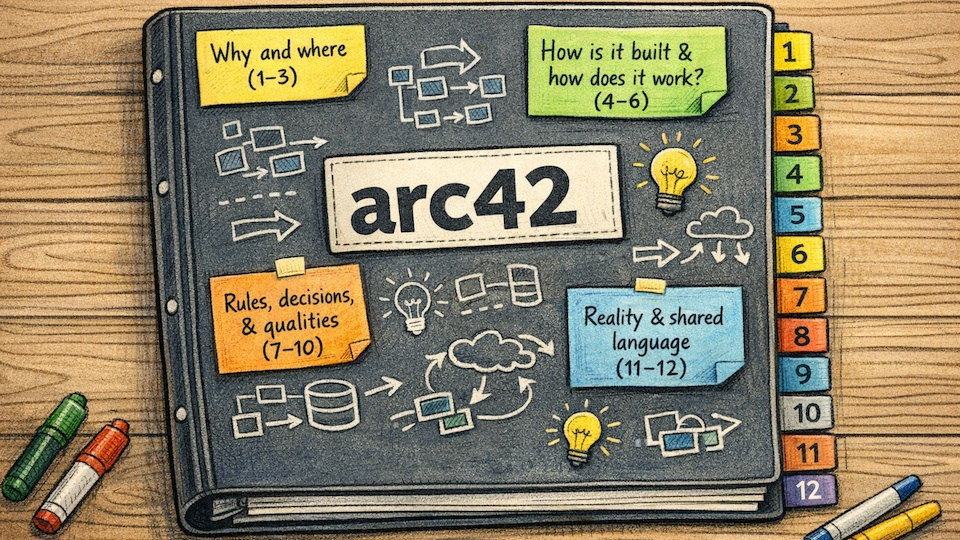
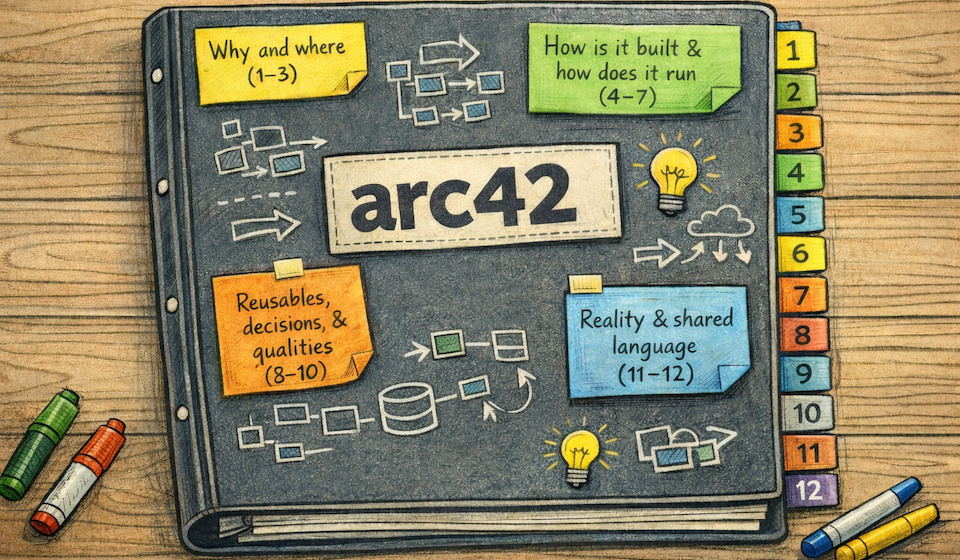
feat: add arc42 chapter 10 on quality requirements

diff --git a/src/styles/global.css b/src/styles/global.css
@@ -1071,7 +1071,6 @@ iframe,
 figure.wp-shadow iframe,
 figure.wp-shadow img,
 img.wp-shadow {
-  border: solid 1px #eee;
   box-shadow: 3px 3px 3px var(--color-border);
   box-sizing: content-box;
 }

diff --git a/posts/2026/2026-02-19-arc42-chapter-10-quality-requirements.md b/posts/2026/2026-02-19-arc42-chapter-10-quality-requirements.md
@@ -1,0 +1,315 @@
+---
+id: 2135
+title: "arc42 chapter 10: Quality requirements"
+date: 2026-02-19T20:00:00+01:00
+author: Michaël Hompus
+excerpt: >
+  Chapter 10 turns quality goals into testable quality scenarios.
+  It helps you move beyond vague words like "fast" or "secure" by describing concrete situations,
+  expected responses, and measurable targets.
+  ISO/IEC 25010 and Q42 can help as a structure and inspiration, but the real value is iteration:
+  refine goals, learn from reality, and tighten scenarios over time.
+
+  In this article I explain what belongs in chapter 10, what to keep out,
+  a minimal structure you can copy, plus a small example from Pitstop.
+permalink: /2026/02/19/arc42-chapter-10-quality-requirements/
+image: /wp-content/uploads/2026/02/post-2026-02-19-thumbnail.jpg
+categories:
+  - Architecture
+tags:
+  - arc42
+  - Documentation
+  - Quality
+  - ISO25010:2023
+  - Q42
+  - Scenarios
+series: Arc42 Practical Series
+---
+
+This post is about **chapter 10: Quality requirements**,
+the third chapter in the "Reusables, decisions, and qualities" group.
+
+Chapter [1][CH1] introduced quality goals at a high level.
+Chapters [8][CH8] and [9][CH9] captured patterns and decisions that often exist _because_ of those goals.
+Chapter 10 is where I make qualities concrete: not as slogans, but as scenarios you can test, monitor, and verify.
+
+One recurring problem: stakeholders and teams find it hard to write SMART quality requirements.
+They will say <q>fast</q>, <q>robust</q>, <q>secure</q>, and everyone nods.
+Then production teaches you that nodding is not a measurement.
+
+<!--more-->
+
+## What belongs in chapter 10 (and what does not)
+
+Chapter 10 of an [arc42][ARC42] document answers:
+
+> Which quality requirements matter, and how do we know we meet them?
+
+What belongs here:
+
+- A **quality requirements overview**:  
+  the relevant quality characteristics for your system, grouped in a structure that is easy to scan.
+  ISO/IEC 25010 is a common choice for this grouping, and [Q42][Q42] is a useful catalogue for examples.
+- A set of **quality scenarios**:  
+  situation-based, testable requirements with a stimulus, an expected response, and a metric or target.
+  "Testable" means different things per type: validate a latency scenario with a load test or SLO alert;
+  an auditability scenario with a timed export; a modifiability scenario by verifying the adapter boundary in a code review.
+- A clear link back to **quality goals** from chapter [1][CH1].  
+  If chapter 1 says "auditability" is a top goal, chapter 10 should make that measurable.
+- Cross-links to where quality is implemented:  
+  concepts (chapter [8][CH8]), decisions (chapter [9][CH9]), and sometimes deployment constraints (chapter [7][CH7]).
+
+What does not belong here:
+
+- A technology shopping list.  
+  "Kafka" is not a quality requirement, it is a potential solution.
+- Purely functional requirements and business workflows.  
+  Those belong in use cases, building blocks (chapter [5][CH5]), and runtime scenarios (chapter [6][CH6]).
+- Only vague adjectives.  
+  "fast" and "secure" are direction, not requirements.
+  Chapter 10 is where you turn them into something you can validate.
+
+> [!TIP]
+> If you cannot imagine a test, a metric, or an operational check for a statement,
+> it probably belongs in chapter 1 as a goal, not in chapter 10 as a requirement.
+
+### Why is quality so late in arc42?
+
+It can feel strange that quality scenarios show up this far back in the arc42 structure.
+It can look like quality is an afterthought. It is not.
+
+This is how I explain it:
+
+- Quality goals are up front because they drive direction.
+- Quality scenarios are later because they need context to be meaningful.
+- The document is iterative: you refine goals, you make choices, you learn, you tighten scenarios.
+
+In other words, chapter 10 benefits from having chapters [5][CH5]–[7][CH7] in place.
+A scenario like "p95 status update latency is ≤ 2s" only makes sense when you know what "status update" is,
+which building blocks collaborate, and where the system actually runs.
+
+> [!NOTE]
+> Verification often happens late because reality arrives late.
+> The trick is to still let quality drive your work early, then use chapter 10 to sharpen the targets as you learn.
+
+### A structure that helps when people struggle with SMART qualities
+
+If your stakeholders struggle with SMART wording, do not fight them with a blank page.
+Give them a ladder:
+
+- Start with a quality tree to agree on vocabulary.
+- Add a short overview per quality area: what matters and what does not.
+- Convert the important items into scenarios with measurable targets.
+
+Two helpful sources for vocabulary and inspiration:
+
+- **ISO/IEC 25010:2023** gives you a familiar top-level structure.
+- **Q42** is a companion project by the arc42 team.
+  It gives you a large catalogue of quality characteristics with descriptions and example requirements you can adapt.
+
+Use them as scaffolding, not as a checklist.
+
+### Quality tree diagram
+
+A quality tree is a visual overview of which quality characteristics apply to your system.
+It works like a map: it shows the landscape at a glance, so you can decide where to focus.
+
+It is useful because it makes trade-offs visible.
+When you can see all quality areas together, it becomes easier to say "this matters more than that",
+and to explain that choice to others.
+It also prevents the "everything is important" trap:
+when everything is marked as a top priority, that is the same as having no priorities at all.
+
+![Quality tree diagram](/wp-content/uploads/2026/02/quality-tree.png)
+
+> [!NOTE]  
+> Most systems use a subset of the tree, **not all branches**. The goal is clarity, not purity.  
+> It is fine to add system-specific categories such as auditability or data minimization.
+
+## The minimum viable version
+
+If you are short on time, aim for this:
+
+1. A small quality overview, grouped by ISO/IEC 25010:2023 headings.  
+  <small>(or your own headings if that reads better).</small>
+2. Pick 3–6 top items and write quality scenarios for them.
+3. For each scenario, add a metric target you can validate later.
+
+That is enough to stop quality from being a vibe.
+
+## Copy/paste structure (Markdown skeleton)
+
+Use this as a starting point.
+
+```md title="10-quality-requirements.md"
+## 10. Quality requirements
+
+<Short intro: why quality matters for this system and how we verify it.>
+
+### 10.1 Quality requirements overview
+
+<Group requirements using ISO/IEC 25010:2023 headings or another clear structure.>
+<Mark "nice-to-have" items explicitly.>
+
+### 10.2 Quality scenarios
+
+<Scenario-based, testable requirements. Keep them short and measurable.>
+
+| Scenario | Stimulus | Response | Metric/Target |
+| :------- | :------- | :------- | :------------ |
+| ...      | ...      | ...      | ...           |
+
+<Add more tables per quality theme if that improves readability.>
+```
+
+> [!NOTE]
+> If you already use BDD or [Gherkin][GHERKIN_REFERENCE], the mapping is straightforward:  
+> **Given** (context and preconditions),  
+> **When** (stimulus),  
+> **Then** (expected response and metric/target).  
+> You can write scenarios in Gherkin and reference them here, or keep them in the table format above.
+> Either way, the key property is the same: concrete, testable, and measurable.
+
+## Example (Pitstop)
+
+Pitstop is my small demo system for this series.
+It is intentionally simple, so the documentation stays shareable.
+
+Below is a shortened version of the Pitstop chapter 10.
+It shows the structure without drowning you in every possible scenario.
+Notice how overview headings and scenario groups mark which chapter [1][CH1] top goals they address.
+Consistency is a Pitstop-specific quality area that does not map to a single ISO/IEC 25010:2023 category.
+
+> ## 10. Quality requirements
+>
+> ### 10.1 Quality requirements overview
+>
+> ![Quality tree diagram](/wp-content/uploads/2026/02/pitstop-quality-tree.png)
+>
+> #### Reliability _(top goal: Resilience)_
+>
+> - Degraded-mode operation for workshop during flaky internet.
+> - Sync backlog does not block workshop core operations.
+>
+> #### Consistency _(top goal: Consistency)_
+>
+> - Status updates visible across all UIs within seconds.
+> - Idempotent handling of duplicate planning updates.
+>
+> #### Maintainability _(top goal: Modifiability)_
+>
+> - Add a new planning vendor adapter without changing core work order rules.
+> - _Nice-to-have:_ automated contract tests with recorded fixtures.
+>
+> #### Security
+>
+> - Role-based access control with site scoping via `garageId`.
+> - Secure audit trail, prevent tampering with history.
+>
+> #### Auditability / traceability
+>
+> - Every significant change records who, when, and why.
+> - Timeline export supports disputes and compliance.
+>
+> ### 10.2 Quality scenarios
+>
+> #### Reliability _(top goal: Resilience)_
+>
+> | Scenario     | Stimulus          | Response                                   | Metric/Target                        |
+> | :----------- | :---------------- | :----------------------------------------- | :----------------------------------- |
+> | Wi-Fi outage | 15 min disconnect | Workshop continues, actions queued locally | ≥ 99% of actions queued without loss |
+> | Reconnect    | Network returns   | Queue replays and sync completes           | drained within ≤ 60s                 |
+>
+> _See also: degraded mode concept and ADR-001._
+>
+> #### Consistency _(top goal: Consistency)_
+>
+> | Scenario                  | Stimulus                              | Response                    | Metric/Target           |
+> | :------------------------ | :------------------------------------ | :-------------------------- | :---------------------- |
+> | Status visible everywhere | Mechanic sets `WaitingForParts`       | Admin and Workshop converge | ≤ 2s end-to-end (p95)   |
+> | Duplicate vendor update   | Planning sends same appointment twice | Processed once, idempotent  | 0 duplicate work orders |
+>
+> #### Maintainability _(top goal: Modifiability)_
+>
+> | Scenario            | Stimulus            | Response                      | Metric/Target            |
+> | :------------------ | :------------------ | :---------------------------- | :----------------------- |
+> | Add planning vendor | New API and mapping | Add adapter, domain unchanged | ≤ 2 days, core untouched |
+>
+> #### Security
+>
+> | Scenario             | Stimulus                    | Response           | Metric/Target         |
+> | :------------------- | :-------------------------- | :----------------- | :-------------------- |
+> | Cross-garage access  | User tries other `garageId` | Denied             | 100% blocked          |
+> | Audit tamper attempt | Try to edit history         | Prevented + logged | 100% blocked + logged |
+>
+> #### Auditability
+>
+> | Scenario         | Stimulus             | Response             | Metric/Target |
+> | :--------------- | :------------------- | :------------------- | :------------ |
+> | Customer dispute | "You promised 16:00" | Export full timeline | ≤ 60s export  |
+
+To browse the full Pitstop arc42 sample, see my [GitHub Gist][PITSTOP_ARC42].
+
+## Common mistakes I see (and made myself)
+
+1. **Writing only adjectives**  
+   "fast" is not a requirement. A scenario with a measurable target is.
+   Make sure to talk with stakeholders what the target should be and how to verify it.
+
+2. **Mixing requirements and solutions**  
+   "use Redis" is a decision, not a requirement.
+   The requirement is something like "fast access to work order state".
+   If you have a decision that implements a quality requirement,
+   write the requirement here, and link to the decision in chapter [9][CH9].
+
+3. **No link back to goals**  
+   If chapter [1][CH1] lists top goals, chapter 10 should make them concrete.
+   It would be strange if chapter 1 says "consistency" is a top goal,
+   but chapter 10 does not have any scenarios to measure it.
+
+4. **Treating this as one-and-done**  
+   Quality scenarios improve with iteration.
+   Early drafts are allowed to be rough, as long as you refine them.
+   Every time you add a scenario, building block, deployment, or decision,
+   ask yourself if it has quality implications that should be captured here.
+
+5. **Too many scenarios without navigation**  
+   A large system can have many scenarios.
+   Group them, keep titles clear, and keep tables consistent.
+   Link to documents if you have detailed test plans or runbooks.
+
+## Done-when checklist
+
+🔲 Quality requirements are grouped in a structure people recognize (ISO/IEC 25010 or equivalent).  
+🔲 Top quality goals from chapter [1][CH1] are turned into measurable scenarios.  
+🔲 Scenarios include a stimulus, response, and a metric or target.  
+🔲 At least one quality area traces back to the concept or decision that implements it.  
+🔲 The chapter is treated as iterative, it will be refined as the system and insights evolve.
+
+## Next improvements backlog
+
+- Add monitoring or test hooks for the most important scenario metrics.
+- Add scenario coverage for important external neighbors and operational jobs.
+- Tighten targets over time based on observed production baselines.
+- Add a short note per top goal on how it is validated (test, metric, runbook).
+
+## Wrap-up
+
+Chapter 10 is where quality stops being a wish and becomes a check.
+When a quality trade-off is accepted, document it here:
+note which quality was deprioritized, which won, and link to the decision in chapter [9][CH9] that captures the reasoning.
+You can start with rough scenarios, then refine them as you learn.
+
+Next up: arc42 chapter 11, "Risks and technical debt", where we capture the things that can still bite us later,
+and how we keep them visible.
+
+[PITSTOP_ARC42]: https://gist.github.com/eNeRGy164/90f63e78d3e528f7b8490538a6781b5f
+[ARC42]: https://arc42.org/
+[Q42]: https://quality.arc42.org/q42-for-iso-users/
+[GHERKIN_REFERENCE]: https://cucumber.io/docs/gherkin/reference/
+[CH1]: /2026/02/02/arc42-chapter-1-introduction-and-goals/
+[CH5]: /2026/02/10/arc42-chapter-5-building-block-view/
+[CH6]: /2026/02/11/arc42-chapter-6-runtime-view/
+[CH7]: /2026/02/16/arc42-chapter-7-deployment-view/
+[CH8]: /2026/02/17/arc42-chapter-8-cross-cutting-concepts/
+[CH9]: /2026/02/18/arc42-chapter-9-architectural-decisions/

diff --git a/posts/2026/2026-02-18-arc42-chapter-9-architectural-decisions.md b/posts/2026/2026-02-18-arc42-chapter-9-architectural-decisions.md
@@ -2,6 +2,7 @@
 id: 2134
 title: "arc42 chapter 9: Architectural decisions"
 date: 2026-02-18T21:00:00+01:00
+updated: 2026-02-19T20:00:00+01:00
 author: Michaël Hompus
 excerpt: >
   Chapter 9 is your decision timeline.
@@ -289,7 +290,7 @@ To browse the full Pitstop arc42 sample, see my [GitHub Gist][PITSTOP_ARC42].
 🔲 Each entry has at least the decision and a short motivation.  
 🔲 Important decisions have considered options recorded.  
 🔲 Decisions link to where they show up (chapters [4][CH4]–[8][CH8]).  
-🔲 Quality trade-offs connect to quality scenarios in chapter 10.
+🔲 Quality trade-offs connect to quality scenarios in chapter [10][CH10].
 
 ## Next improvements backlog
 
@@ -303,9 +304,9 @@ Chapter 9 is the memory of your architecture.
 It keeps the reasoning visible, even when the team changes and the code evolves.
 
 Decisions and quality requirements reinforce each other.
-A decision often accepts a trade-off, and chapter 10 is where you make those trade-offs measurable.
+A decision often accepts a trade-off, and chapter [10][CH10] is where you make those trade-offs measurable.
 
-Next up: arc42 chapter 10, "Quality requirements", where we turn quality goals into concrete scenarios and checks.
+Next up: [arc42 chapter 10, "Quality requirements"][CH10], where we turn quality goals into concrete scenarios and checks.
 
 [PITSTOP_ARC42]: https://gist.github.com/eNeRGy164/90f63e78d3e528f7b8490538a6781b5f
 [ARC42]: https://arc42.org/
@@ -313,3 +314,4 @@ Next up: arc42 chapter 10, "Quality requirements", where we turn quality goals i
 [WILLEM_ADR_CLAUDE_BLOG]: https://www.beyondautocomplete.nl/how-i-use-claude-code-to-keep-my-architecture-decisions-on-track/
 [CH4]: /2026/02/09/arc42-chapter-4-solution-strategy/
 [CH8]: /2026/02/17/arc42-chapter-8-cross-cutting-concepts/
+[CH10]: /2026/02/19/arc42-chapter-10-quality-requirements/

diff --git a/posts/2026/2026-02-01-using-arc42-as-a-starter-pack-for-architecture-documentation.md b/posts/2026/2026-02-01-using-arc42-as-a-starter-pack-for-architecture-documentation.md
@@ -2,7 +2,7 @@
 id: 2125
 title: "The Art of Simple Software Architecture Documentation (with arc42) - a practical series"
 date: 2026-02-01T21:50:00+01:00
-updated: 2026-02-18T21:00:00+01:00
+updated: 2026-02-19T20:00:00+01:00
 author: Michaël Hompus
 excerpt: >
   After my "The Art of Simple Software Architecture Documentation" talk,
@@ -198,7 +198,7 @@ Once those are clear, you can add:
 
 - ✅ 8. [Cross-cutting concepts][CH8]
 - ✅ 9. [Architecture decisions][CH9]
-- ⏳ 10. Quality
+- ✅ 10. [Quality requirements][CH10]
 
 **Reality & shared language:**
 
@@ -236,3 +236,4 @@ where we turn vague intentions into a small set of concrete quality goals.
 [CH7]: /2026/02/16/arc42-chapter-7-deployment-view/
 [CH8]: /2026/02/17/arc42-chapter-8-cross-cutting-concepts/
 [CH9]: /2026/02/18/arc42-chapter-9-architectural-decisions/
+[CH10]: /2026/02/19/arc42-chapter-10-quality-requirements/
